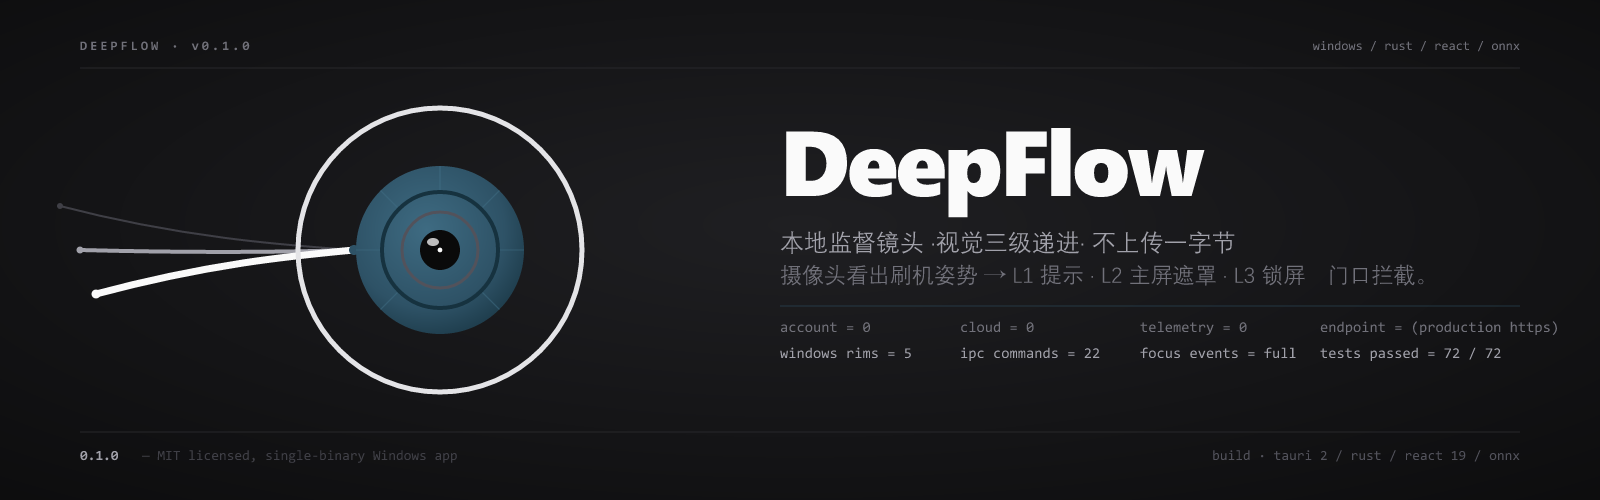
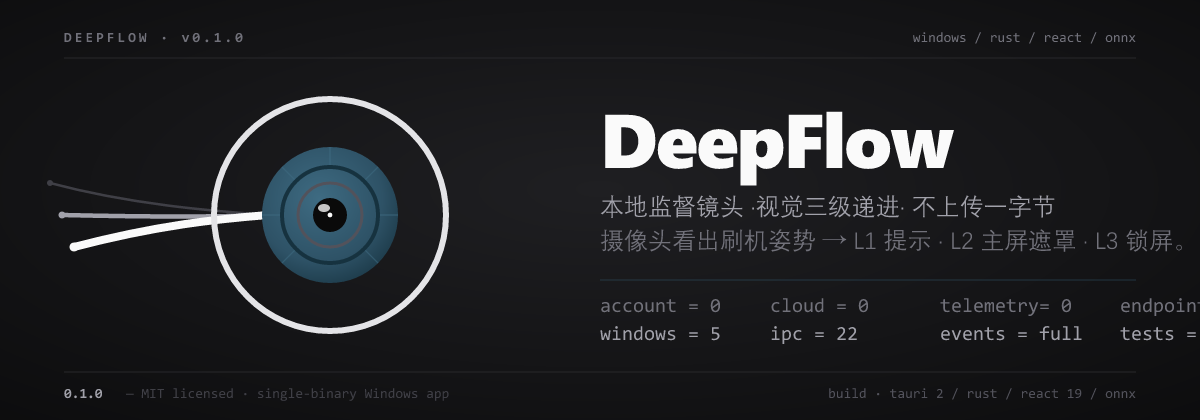
README beutify per skill 合同 (beautify-github-readme): - audit_readme.py: "OK image references and SVG basics passed" (5 image) - svg-production hard contract: hero viewBox 1200x420 (was 1600x500) - 加 <desc> id (a11y, contract §8) - 字号对 GitHub 900px content 缩放校准:     wordmark 76 -> 57px GitHub     bo

diff --git a/README.md b/README.md
@@ -43,7 +43,7 @@
 ## 🧱 架构分层
 
 <p align="center">
-  <img src="docs/assets/architecture.svg" alt="DeepFlow 架构分层" width="100%">
+  <img src="docs/assets/architecture.png" alt="DeepFlow 架构分层" width="100%">
 </p>
 
 服务端不可选、不可达 —— 图上所有模块都跑在用户机器本地。React 前端调用 `tauri::command` IPC 边界,所有文件落盘在 `data_dir`(env/便携/dev/install 四模式之一)。
@@ -53,7 +53,7 @@
 ## 🔄 视觉数据流
 
 <p align="center">
-  <img src="docs/assets/data-flow.svg" alt="DeepFlow 视觉数据流" width="100%">
+  <img src="docs/assets/data-flow.png" alt="DeepFlow 视觉数据流" width="100%">
 </p>
 
 无 ONNX 模型时,运行时回退到内置启发式检测器(`vision/detector.rs`)继续工作 —— 不需要先装相机才能用 DeepFlow。
@@ -63,7 +63,7 @@
 ## 🌡 渐进式三阶干预(核心差异化)
 
 <p align="center">
-  <img src="docs/assets/intervention-ladder.svg" alt="L1/L2/L3 渐进式三阶干预阶梯" width="100%">
+  <img src="docs/assets/intervention-ladder.png" alt="L1/L2/L3 渐进式三阶干预阶梯" width="100%">
 </p>
 
 DeepFlow 不"一上来就锁屏"。它对持机行为做**软→强递进**:**L1** 给 toast、**L2** 来橙色全屏但可忽略、**L3** 才锁屏逼你输入"刷手机的原因"——并把这次事件计入 SQLite,出现到周报"中断"统计中。持机时间越级触发,越级不可逆;放下手机约 1s 后状态恢复。
@@ -205,10 +205,10 @@ Setup:`check_setup` / `start_setup` / `open_setup_window`
 ## 📸 截图
 
 <p align="center">
-  <img src="docs/assets/screenshot-placeholder.svg" alt="截图占位 — 本地构建后替换" width="80%">
+  <img src="docs/assets/screenshot-placeholder.png" alt="截图占位 — 本地构建后替换" width="80%">
 </p>
 
-> 截图占位:本地 `cargo tauri run` 后截图主屏 / Overlay 锁屏 / 浮钟 / 周报 PNG,替换 `docs/assets/screenshot-placeholder.svg` 即可。
+> 截图占位:本地 `cargo tauri run` 后截图主屏 / Overlay 锁屏 / 浮钟 / 周报 PNG,替换 `docs/assets/screenshot-placeholder.png` 即可。
 
 ---
 
